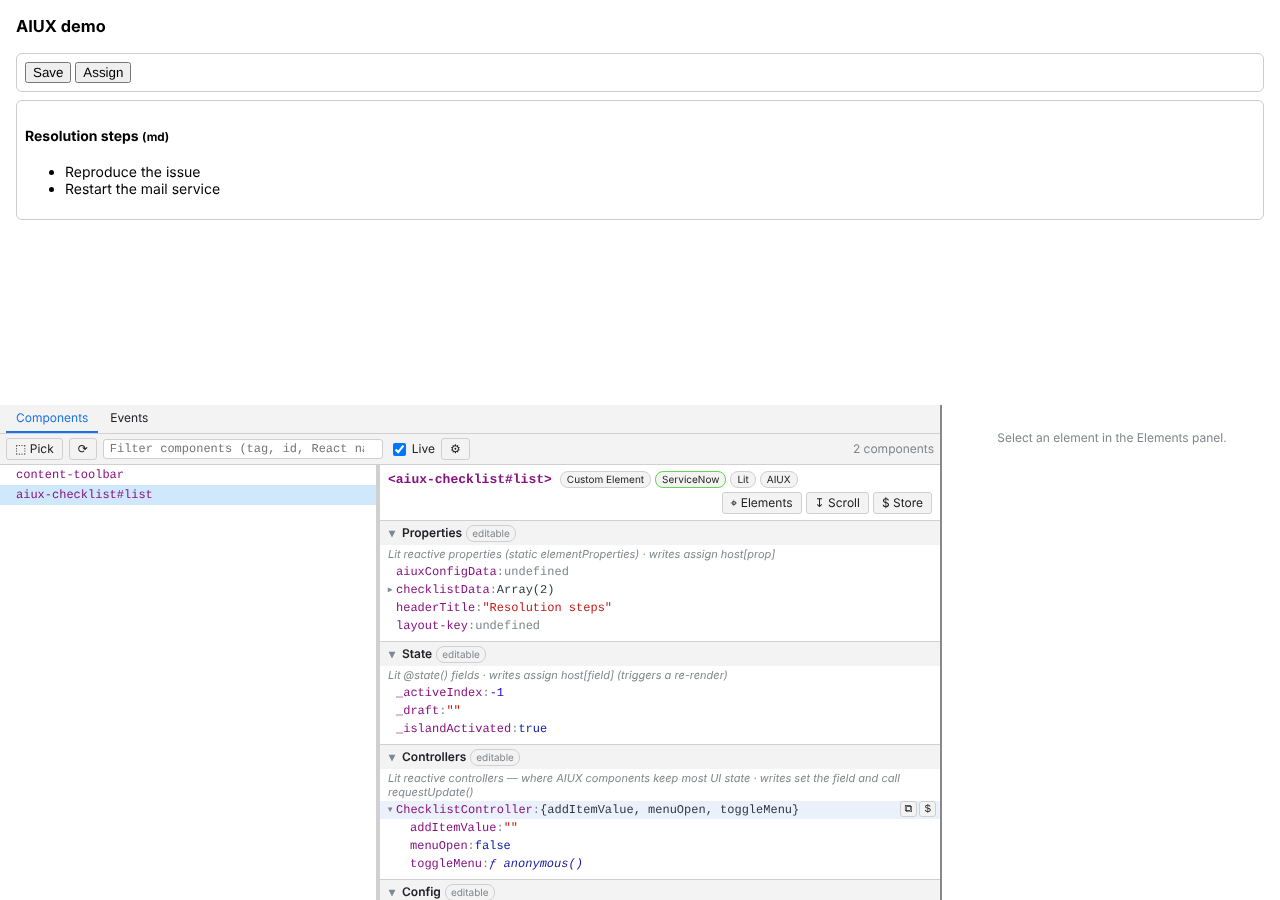
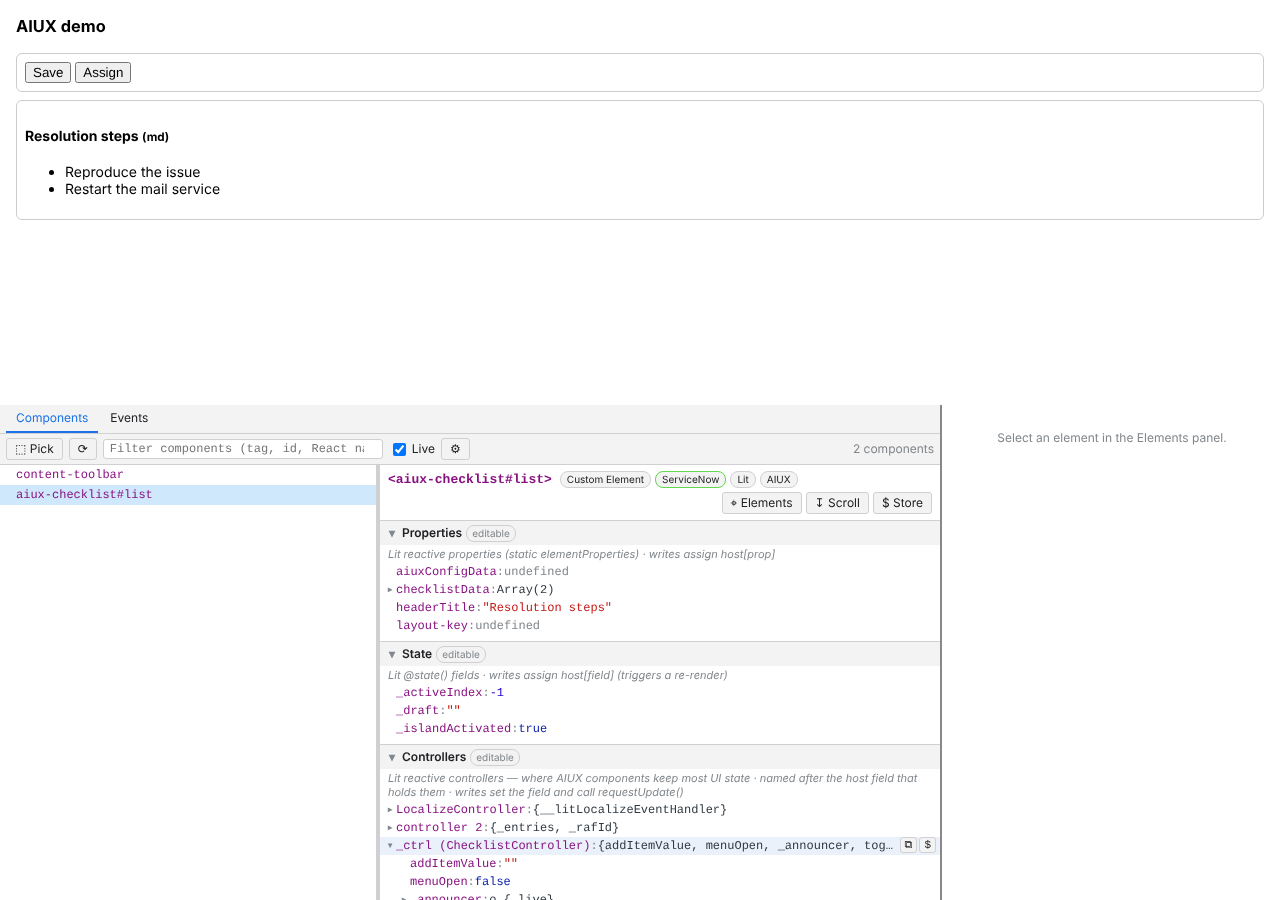
Name controllers by the field that holds them, not their class
On a real (minified) instance the Controllers section listed
ChecklistController as "E", because minifiers shorten class names. They
leave property names alone, so each controller is now labelled, in order
of preference: the host field that holds it ("_ctrl"), its class name
when that is not minified, a shape it is recognised by (@lit/localize's
controller), the field of another controller that holds it
("_ctrl._announcer"), or "controller N".

- verify:aiux gains --minify to check against a minified bundle of the
  real component, as on a production instance; 13 checks pass both ways.
- The AIUX fixture now has controllers with minified-style class names.
- Version 1.2.1, so already-open pages pick up the new agent.

Claude-Session: https://claude.ai/code/session_01VaGHy6k7Dk5S8x7HmP9nF4

Changed region(s): [[0.3125, 0.84, 0.7188, 1.0], [0.6875, 0.9333, 0.7188, 0.9644], [0.625, 0.9333, 0.6562, 0.9644]]

diff --git a/agent/agent.js b/agent/agent.js
@@ -12,7 +12,7 @@
 (function () {
   'use strict';
 
-  var VERSION = '1.2.0';
+  var VERSION = '1.2.1';
   var GLOBAL = '__SN_AIUX_DEVTOOLS__';
 
   if (window[GLOBAL] && window[GLOBAL].version === VERSION) {
@@ -533,14 +533,60 @@
     return [];
   }
 
-  /** Controllers keyed by a display label ("ChecklistController", "X #2", …). */
+  // Production builds are minified, which renames classes
+  // ("ChecklistController" becomes "E") but not properties. So a controller
+  // is labelled by the host field that holds it ("_ctrl"), and its class name
+  // is only shown when it looks like a real one.
+  function looksMinified(name) {
+    return !name || name === 'Object' || name.length <= 3;
+  }
+
+  /** Name of the own property of `owner` whose value is `value`, if any. */
+  function propertyHolding(owner, value) {
+    var names = [];
+    try { names = Object.getOwnPropertyNames(owner); } catch (e) { return null; }
+    for (var i = 0; i < names.length; i++) {
+      var got = safeGet(owner, names[i]);
+      if (got.ok && got.value === value) return names[i];
+    }
+    return null;
+  }
+
+  /**
+   * Controllers with display labels, in registration order. A label is, in
+   * order of preference: the host field holding the controller, its class
+   * name if not minified, a controller recognised by shape, the field of
+   * another controller that holds it ("_ctrl._live"), or "controller N".
+   */
   function controllerEntries(el) {
+    var controllers = litControllers(el);
+    var bases = controllers.map(function (ctrl) {
+      var cls = ctorName(ctrl);
+      var named = !looksMinified(cls);
+      var prop = propertyHolding(el, ctrl);
+      if (prop) return prop + (named ? ' (' + cls + ')' : '');
+      if (named) return cls;
+      // @lit/localize's controller, added by updateWhenLocaleChanges().
+      if (Object.prototype.hasOwnProperty.call(ctrl, '__litLocalizeEventHandler')) return 'LocalizeController';
+      return null;
+    });
+    controllers.forEach(function (ctrl, i) {
+      if (bases[i]) return;
+      for (var j = 0; j < controllers.length; j++) {
+        if (j === i || !bases[j]) continue;
+        var prop = propertyHolding(controllers[j], ctrl);
+        if (prop) {
+          bases[i] = bases[j].replace(/ \(.*\)$/, '') + '.' + prop;
+          return;
+        }
+      }
+      bases[i] = 'controller ' + (i + 1);
+    });
     var used = {};
-    return litControllers(el).map(function (ctrl) {
-      var base = ctorName(ctrl);
-      var label = base;
+    return controllers.map(function (ctrl, i) {
+      var label = bases[i];
       var n = 2;
-      while (used[label]) label = base + ' #' + n++;
+      while (used[label]) label = bases[i] + ' #' + n++;
       used[label] = 1;
       return { label: label, controller: ctrl };
     });
@@ -994,7 +1040,7 @@
           title: 'Controllers',
           root: ctrlRoot,
           editable: true,
-          note: 'Lit reactive controllers — where AIUX components keep most UI state · writes set the field and call requestUpdate()'
+          note: 'Lit reactive controllers — where AIUX components keep most UI state · named after the host field that holds them · writes set the field and call requestUpdate()'
         });
       }
       var schema = configSchemaOf(el);
@@ -1657,7 +1703,7 @@
         var ctrl = entry.controller;
         ctrl[path[1]] = path.length === 2 ? value : immutableSet(ctrl[path[1]], path.slice(2), value);
         if (typeof el.requestUpdate === 'function') el.requestUpdate();
-        return { ok: true, method: path[0] + '.' + path[1] + ' = … + requestUpdate()' };
+        return { ok: true, method: path[0].replace(/ \(.*\)$/, '') + '.' + path[1] + ' = … + requestUpdate()' };
       }
       if (sectionKey === 'config') {
         if (!path.length) return { ok: false, error: 'Select a config field' };

diff --git a/test/fixtures/aiux.html b/test/fixtures/aiux.html
@@ -78,6 +78,38 @@
         });
       }
 
+      // Controllers named the way a minifier leaves them on a real instance
+      // (class names shortened, property names intact).
+      class eg { // @lit/localize's controller: registered, but held by no field
+        constructor(host) {
+          this.host = host;
+          this.__litLocalizeEventHandler = () => {};
+          host.addController(this);
+        }
+        hostConnected() {}
+      }
+      class ez { // registered, held by no field, no recognisable shape
+        constructor(host) {
+          this._entries = [];
+          this._rafId = 0;
+          host.addController(this);
+        }
+        hostUpdated() {}
+      }
+      class o { // held by another controller, not by the host
+        constructor(host) {
+          this._live = null;
+          host.addController(this);
+        }
+      }
+      class E { // held by a host field
+        constructor(host) {
+          this.open = false;
+          host.addController(this);
+        }
+        hostConnected() {}
+      }
+
       // Like real AIUX components, UI state lives in a Lit reactive controller.
       class ChecklistController {
         constructor(host) {
@@ -107,7 +139,10 @@
           this.headerTitle = '';
           this._activeIndex = -1;
           this._draft = '';
+          new eg(this);
+          new ez(this);
           this._ctrl = new ChecklistController(this);
+          this._ctrl._announcer = new o(this);
           this.addEventListener('keydown', this._onKeyDown);
         }
         _onKeyDown() {}
@@ -141,6 +176,7 @@
         constructor() {
           super();
           this.items = ['Save', 'Assign'];
+          this._menu = new E(this);
         }
         render() {
           return html`${this.items.map((label) => html`<button @click=${() => this.dispatchEvent(new CustomEvent('content-toolbar:action', { detail: { label }, bubbles: true, composed: true }))}>${label}</button> `)}`;

diff --git a/README.md b/README.md
@@ -21,7 +21,7 @@ A Chrome DevTools extension for inspecting **ServiceNow AIUX components** ([`@se
   |---|---|---|
   | **Properties** | AIUX/Lit components: Lit's registry of reactive properties (`static elementProperties`), excluding `@state` fields. Other components: `static properties` / `componentConfig.properties`, `observedAttributes`, and getters/setters on the class | ✅ assigns `host[prop] = value` (nested edits copy the objects along the path, so components that compare by reference see a change) |
   | **State** | AIUX/Lit components: the `@state()` fields. Other components: the host's state object (see [State discovery](#state-discovery)) | ✅ Lit: assigns the field, which re-renders. Others: through `updateState`/`setState`/`patchState` if one is found, otherwise by mutating the object in place |
-  | **Controllers** | Lit reactive controllers registered on the component. This is where AIUX components keep most of their UI state: for example, `aiux-checklist`'s `ChecklistController` holds `addItemValue`, `menuOpen` and the drag state. Data fields are listed first, handler functions after | ✅ sets the field, then calls `requestUpdate()` |
+  | **Controllers** | Lit reactive controllers registered on the component. This is where AIUX components keep most of their UI state: for example, `aiux-checklist`'s `ChecklistController` holds `addItemValue`, `menuOpen` and the drag state. Data fields are listed first, handler functions after. Each controller is named after the component field that holds it (`_ctrl`), because production builds minify class names (`ChecklistController` becomes `E`) but leave field names alone | ✅ sets the field, then calls `requestUpdate()` |
   | **Config** | AIUX `@config` fields (from `configSchema`) | ✅ writes `aiuxConfigData` |
   | **Events** | Events the component **declares** (`@fires` in the `@servicenow/aiux` sources) and events it actually **dispatched** while recording, with counts and last time. Undeclared events are flagged | read-only |
   | **Event listeners** | Listeners registered on the host and its shadow root (from DevTools' `getEventListeners`). Click **{}** on a listener to open its source | read-only |
@@ -117,7 +117,7 @@ The tests use the Chromium that Playwright downloads (`npx playwright install ch
 
 ### Verifying against a real AIUX component
 
-The fixtures use a look-alike of AIUX's base class. `npm run verify:aiux` runs the agent against the real thing: it bundles `aiux-checklist` from an installed `@servicenow/aiux`, loads it in headless Chromium, and checks 12 things, among them:
+The fixtures use a look-alike of AIUX's base class. `npm run verify:aiux` runs the agent against the real thing: it bundles `aiux-checklist` from an installed `@servicenow/aiux`, loads it in headless Chromium, and checks 13 things, among them:
 
 - properties, `@state`, `@config` and controller state are all found;
 - a real click is logged and recognised as a declared event;
@@ -130,9 +130,10 @@ mkdir /tmp/aiux && cd /tmp/aiux && npm init -y
 npm install @servicenow/aiux --ignore-scripts
 cd -                                  # back to this repo
 npm run verify:aiux -- /tmp/aiux
+npm run verify:aiux -- /tmp/aiux --minify   # minified, like a production instance build
 ```
 
-The package's code only runs inside the headless browser, never in Node. Modules that exist only on a ServiceNow instance are replaced with inert stubs. Last run: all 12 checks pass against `@servicenow/aiux@22.67.1`.
+The package's code only runs inside the headless browser, never in Node. Modules that exist only on a ServiceNow instance are replaced with inert stubs. Last run: all 13 checks pass against `@servicenow/aiux@22.67.1`, both as shipped and minified.
 
 Run it again when AIUX updates, together with `npm run catalog`.
 
